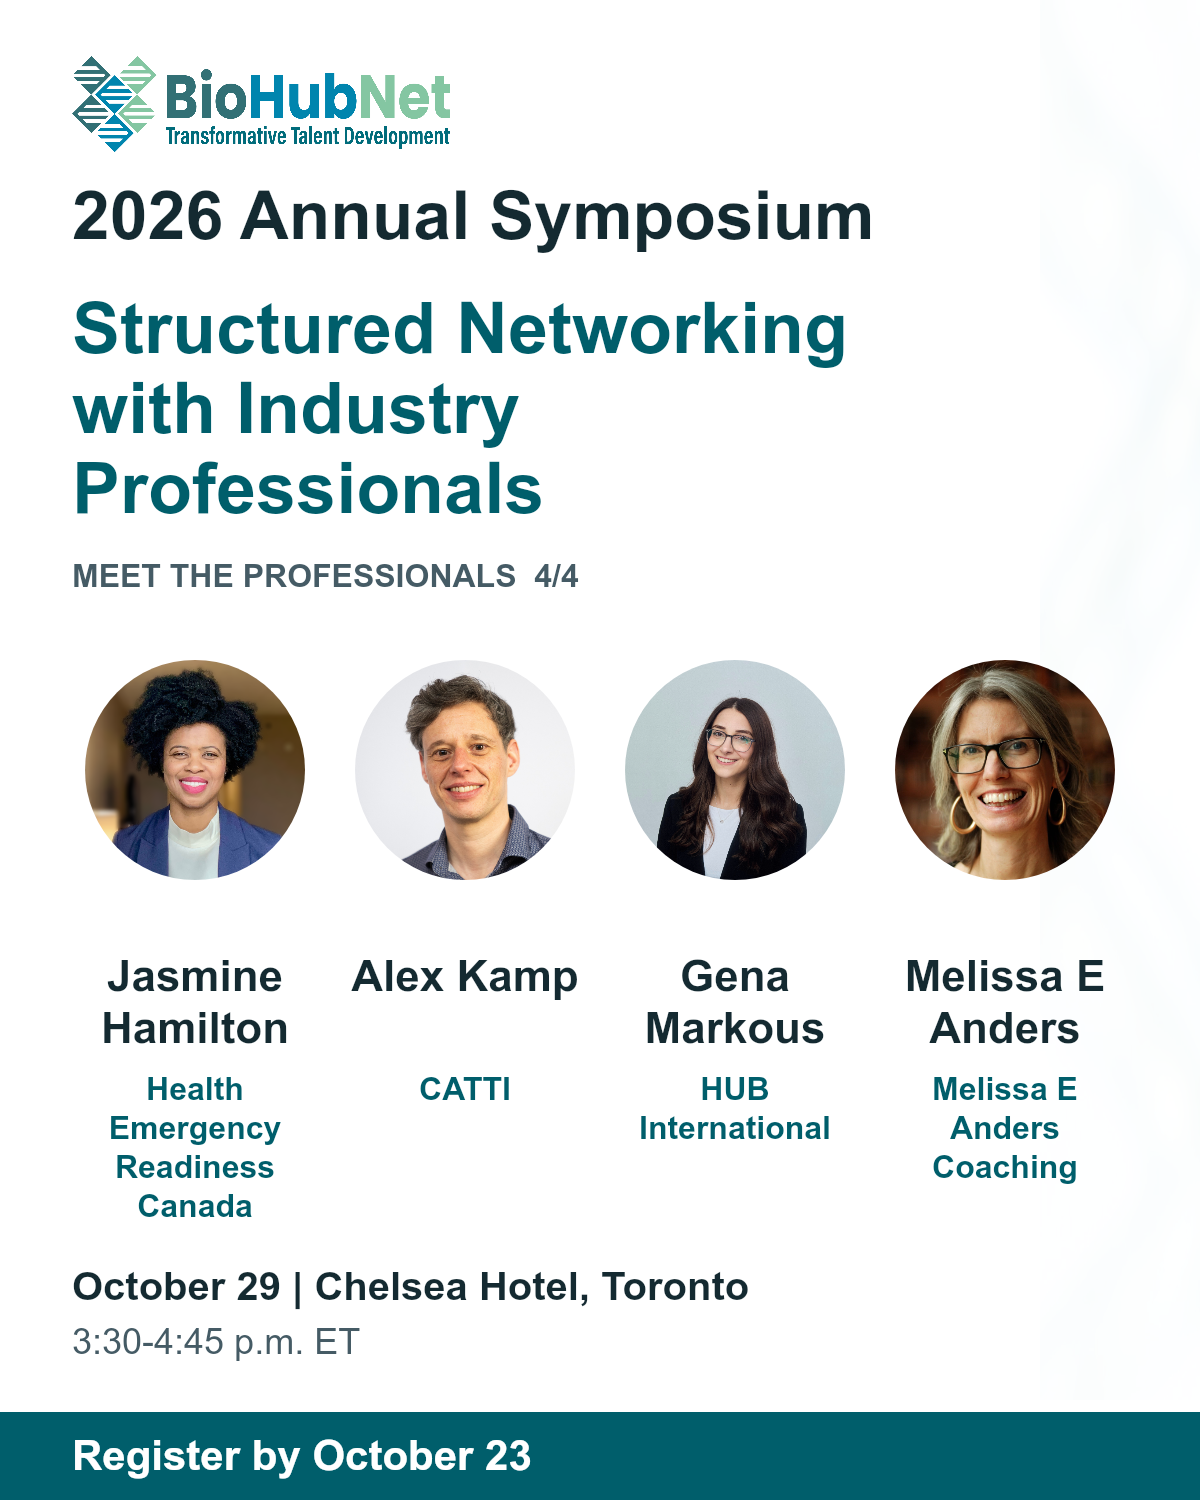
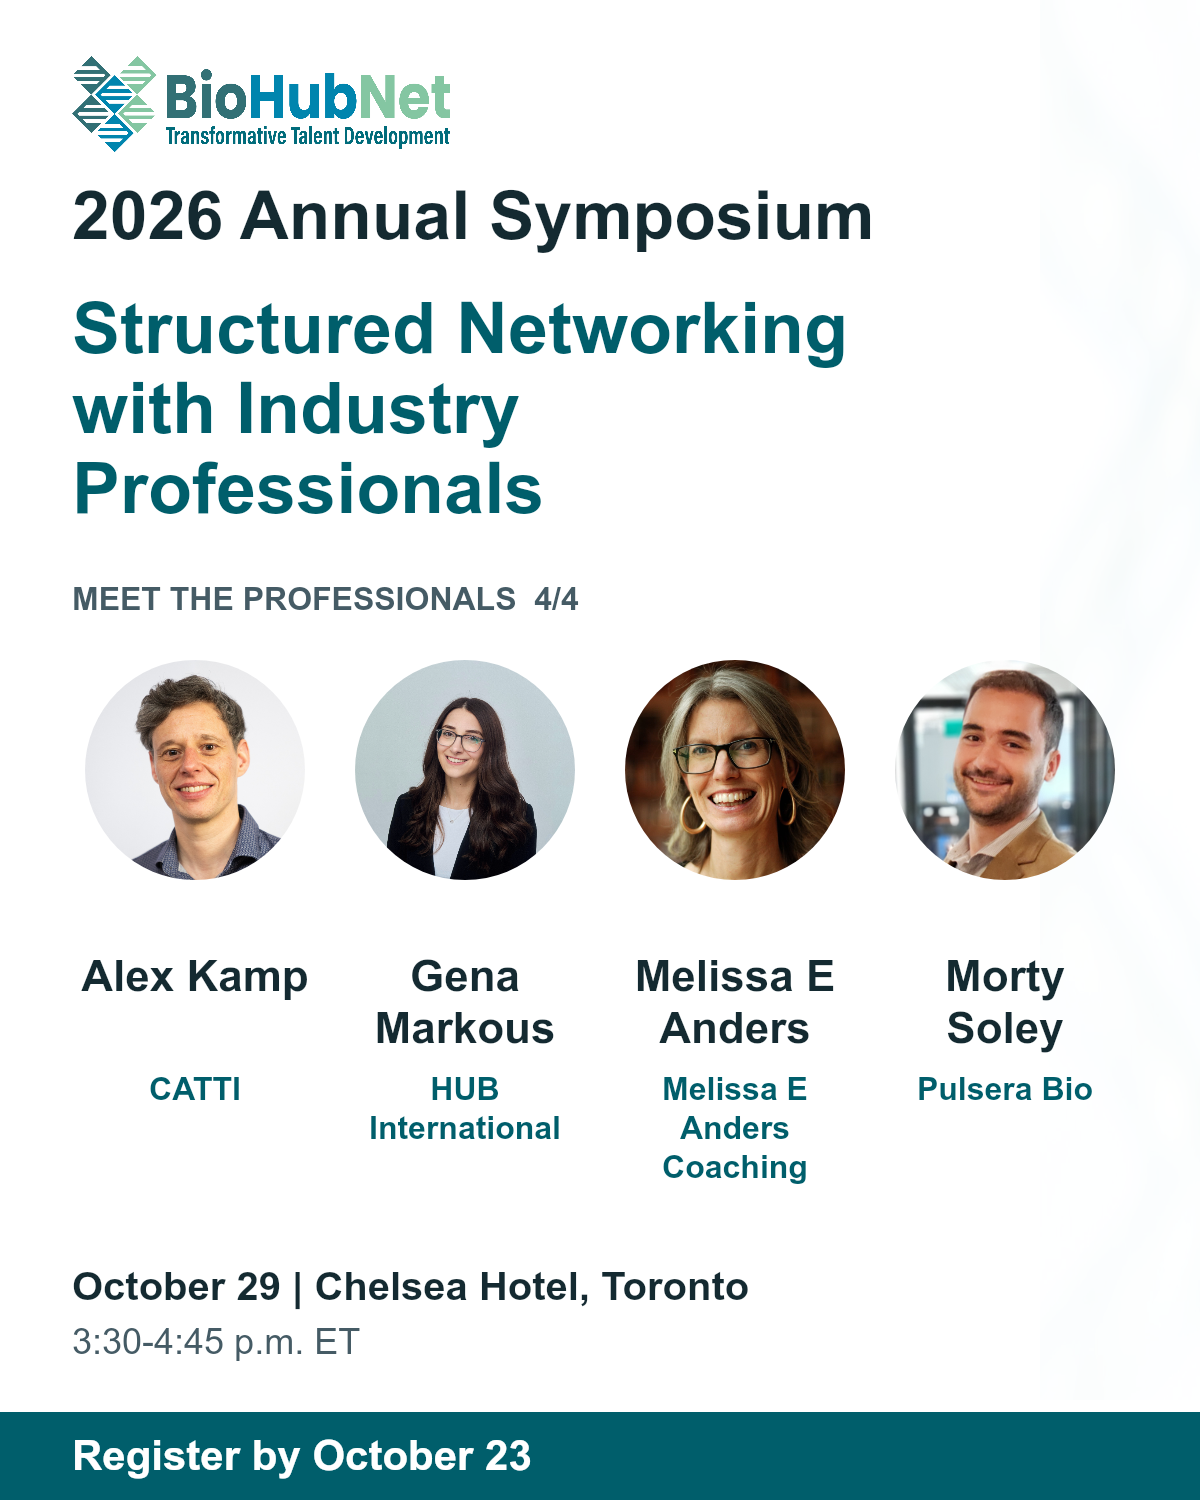
Refresh remaining networking and discussion social highlights

diff --git a/src/lib/social/symposium-networking-posts.ts b/src/lib/social/symposium-networking-posts.ts
@@ -1,4 +1,4 @@
-// Published networking roster checked on October 21, 2026. No public posting is triggered here.
+// Groups 1-3 preserve published copy. Group 4 covers the remaining people checked October 22.
 export const NETWORKING_GROUPS = [
   {
     number: 1,
@@ -37,15 +37,15 @@ export const NETWORKING_GROUPS = [
   },
   {
     number: 4,
-    hook: "Your next step in STEM may be a path you have not considered yet.",
-    invitation: "Explore career choices, leadership and different ways to put a science background to work at Structured Networking with Industry Professionals during BioHubNet's 2026 Annual Symposium.",
+    hook: "Your science background can lead to more than one kind of career.",
+    invitation: "Explore training, entrepreneurship and different ways to put a science background to work at Structured Networking with Industry Professionals during BioHubNet's 2026 Annual Symposium.",
     people: [
-      { name: "Jasmine Hamilton", title: "Senior Advisor", company: "Health Emergency Readiness Canada, Innovation, Science and Economic Development Canada", graphicCompany: "Health Emergency Readiness Canada" },
       { name: "Alex Kamp", title: "Curriculum Development & Partnerships Lead", company: "CATTI", graphicCompany: "CATTI" },
       { name: "Gena Markous", title: "Life Sciences Insurance Advisor", company: "HUB International", graphicCompany: "HUB International" },
       { name: "Melissa E Anders", title: "Founder, Leadership & Career Coach", company: "Melissa E Anders Coaching", graphicCompany: "Melissa E Anders Coaching" },
+      { name: "Morty Soley", title: "Founder", company: "Pulsera Bio", graphicCompany: "Pulsera Bio" },
     ],
-    closing: "From public service and biomanufacturing training to life sciences insurance and STEM career coaching, explore where your experience could lead. Ask about career pivots, leadership and building a career that fits your goals.",
+    closing: "From biomanufacturing training and life sciences insurance to STEM career coaching and building a startup, explore where your experience could lead. Bring your questions about skills, career choices and turning an idea into a venture.",
   },
 ] as const;
 
@@ -55,7 +55,7 @@ export const SYMPOSIUM_NETWORKING_POSTS = NETWORKING_GROUPS.map((group) => ({
   workshopSlug: null,
   suggestedDate: `2026-10-${19 + group.number}T13:00:00Z`,
   sourceUrl: "https://biohubnet.ca/2026-annual-symposium/",
-  assetUrl: `https://bhn-training-platform.vercel.app/social/symposium-2026/networking-${group.number}.png?v=${group.number === 3 ? "20261021-roster15" : "20261020-roster14"}`,
+  assetUrl: `https://bhn-training-platform.vercel.app/social/symposium-2026/networking-${group.number}.png?v=${group.number === 4 ? "20261022-remaining" : group.number === 3 ? "20261021-roster15" : "20261020-roster14"}`,
   graphicBrief: `BioHubNet logo, 2026 Annual Symposium, full Structured Networking with Industry Professionals heading. Original circular headshots with no retouching or color changes: ${group.people.map((p) => p.name).join(", ")}. Names and organizations only on the graphic; professional titles in the caption. Spacious layout, subtle glass edge, October 29 | Toronto | Register now. Recheck the current networking lineup before approving.`,
   body: `${group.hook}
 

diff --git a/src/lib/social/symposium-discussion-posts.ts b/src/lib/social/symposium-discussion-posts.ts
@@ -1,0 +1,52 @@
+// Only people not featured in published symposium posts as of October 22, 2026.
+export const DISCUSSION_GROUPS = [
+  {
+    number: 1,
+    hook: "What will AI change about the way life sciences teams work?",
+    theme: "AI and the Future of Work in Life Sciences",
+    people: [
+      { name: "Jessica Tate", title: "Vice-President, Vector Platform Technology", company: "CCRM/DTBL", graphicCompany: "CCRM / DTBL" },
+      { name: "Juliana Jy", title: "Senior Program Manager", company: "CCRM/DTBL", graphicCompany: "CCRM / DTBL" },
+      { name: "Angela Shaoxu Li", title: "Digital Product Manager", company: "Sanofi", graphicCompany: "Sanofi" },
+    ],
+    closing: "Bring your questions about emerging skills, changing workflows and how people can adapt. Take part in a focused conversation rather than just listening from the audience.",
+  },
+  {
+    number: 2,
+    hook: "The next connection for your research could start with a conversation.",
+    theme: null,
+    people: [
+      { name: "Pierre-Jean Alarco", title: "Knowledge Mobilization Officer", company: "RampUp", graphicCompany: "RampUp" },
+      { name: "Gregory De Crescenzo", title: "Professor", company: "Polytechnique Montreal", graphicCompany: "Polytechnique Montréal" },
+    ],
+    closing: "Meet people working across knowledge mobilization, research and biomanufacturing training. Bring a question, share your perspective and explore connections across the life sciences community.",
+  },
+] as const;
+
+export const SYMPOSIUM_DISCUSSION_POSTS = DISCUSSION_GROUPS.map((group) => ({
+  slug: `symposium-2026-discussion-${group.number}`,
+  title: `2026 Symposium | Interactive Discussion Session (${group.number}/2)`,
+  workshopSlug: null,
+  suggestedDate: "2026-10-23T13:00:00Z",
+  sourceUrl: "https://biohubnet.ca/2026-annual-symposium/",
+  assetUrl: `https://bhn-training-platform.vercel.app/social/symposium-2026/discussion-${group.number}.png?v=20261022`,
+  graphicBrief: `BioHubNet logo, large 2026 Annual Symposium and Interactive Discussion Session headings. Unretouched original rounded headshots: ${group.people.map((p) => p.name).join(", ")}. Names and organizations only; titles stay in the caption. Spacious white layout with a restrained glass edge. October 29 | Toronto | Register by October 23. ${group.theme ? `Approved topic: ${group.theme}.` : "Do not invent a table topic."} People already featured in published posts are excluded.`,
+  body: `${group.hook}
+
+Join the Interactive Discussion Session at BioHubNet's 2026 Annual Symposium.
+${group.theme ? `\nDiscussion topic: ${group.theme}\n` : ""}
+Meet:
+${group.people.map((p) => `@${p.name}, ${p.title}, ${p.company}`).join("\n")}
+
+${group.closing}
+
+October 29, 2026 | Chelsea Hotel, Toronto
+Interactive discussion: 3:30-4:45 p.m. ET
+This session runs concurrently with Structured Networking with Industry Professionals; plan to attend one, not both.
+Registration closes October 23.
+
+Explore the program and register:
+https://biohubnet.ca/2026-annual-symposium/
+
+#BioHubNet #LifeSciences #Biomanufacturing #Networking`,
+}));

diff --git a/tests/unit/social-order.test.tsx b/tests/unit/social-order.test.tsx
@@ -5,6 +5,7 @@ import { renderToStaticMarkup } from "react-dom/server";
 import { DEFAULT_SOCIAL_ORDER, SocialOrderSchema, moveSocialPost, readSocialOrder, sortSocialPosts } from "../../src/lib/social/order";
 import { SYMPOSIUM_PANEL_POSTS } from "../../src/lib/social/symposium-panel-posts";
 import { SYMPOSIUM_NETWORKING_POSTS } from "../../src/lib/social/symposium-networking-posts";
+import { SYMPOSIUM_DISCUSSION_POSTS } from "../../src/lib/social/symposium-discussion-posts";
 import { SYMPOSIUM_CAMPAIGN_PLAN } from "../../src/lib/social/symposium-campaign";
 import { SocialQueue, type QueuePost } from "../../src/components/workspace/SocialQueue";
 
@@ -23,8 +24,8 @@ test("default order follows the symposium agenda first, then Training Week days,
   assert.match(sorted[2].cycleLabel, /Panel 1/);
   assert.match(sorted[3].cycleLabel, /Panel 2/);
   assert.match(sorted[5].cycleLabel, /Panel 3/);
-  assert.ok(sorted.slice(0, 11).every((post) => post.cycleLabel.startsWith("2026 Symposium")));
-  assert.ok(sorted.slice(11).every((post) => post.cycleLabel.startsWith("Training Week")));
+  assert.ok(sorted.slice(0, 13).every((post) => post.cycleLabel.startsWith("2026 Symposium")));
+  assert.ok(sorted.slice(13).every((post) => post.cycleLabel.startsWith("Training Week")));
   assert.deepEqual(posts.map((post) => post.scheduledFor), SYMPOSIUM_CAMPAIGN_PLAN.map((post) => post.suggestedDate));
 });
 
@@ -60,7 +61,7 @@ test("table, full cards and series review use the same shared order with accessi
 });
 
 test("new panel drafts are inserted without discarding colleagues' saved order", () => {
-  const added = new Set([...SYMPOSIUM_PANEL_POSTS, ...SYMPOSIUM_NETWORKING_POSTS].map(p => p.slug));
+  const added = new Set([...SYMPOSIUM_PANEL_POSTS, ...SYMPOSIUM_NETWORKING_POSTS, ...SYMPOSIUM_DISCUSSION_POSTS].map(p => p.slug));
   const legacy = DEFAULT_SOCIAL_ORDER.filter(slug => !added.has(slug)).reverse();
   const migrated = readSocialOrder(legacy);
   assert.deepEqual(migrated.filter(slug => !added.has(slug)), legacy);

diff --git a/tests/unit/symposium-social-calendar.test.tsx b/tests/unit/symposium-social-calendar.test.tsx
@@ -16,7 +16,7 @@ import { SYMPOSIUM_DAY_POSTS } from "../../src/lib/social/symposium-day";
 test("campaign covers every weekday through the symposium, without individual speaker spotlights except Chris", () => {
   const dates = [...new Set(SYMPOSIUM_CAMPAIGN_PLAN.map((post) => post.suggestedDate.slice(0, 10)))].sort();
   assert.deepEqual(dates, ["2026-10-14", "2026-10-15", "2026-10-16", "2026-10-19", "2026-10-20", "2026-10-21", "2026-10-22", "2026-10-23", "2026-10-26", "2026-10-27", "2026-10-28", "2026-10-29"]);
-  assert.equal(new Set(SYMPOSIUM_CAMPAIGN_PLAN.map((post) => post.slug)).size, 19);
+  assert.equal(new Set(SYMPOSIUM_CAMPAIGN_PLAN.map((post) => post.slug)).size, 21);
   for (const post of SYMPOSIUM_CAMPAIGN_PLAN) {
     const body = withSocialTags(post.body);
     assert.ok(body.length < 2000);
@@ -141,9 +141,9 @@ test("page creates missing drafts once, preserves edits and graphics, and no lon
   assert.match(html, /A colleague&#x27;s edited keynote post/);
   assert.match(html, /src="https:\/\/images.example\/chris.png"/);
   assert.match(html, /Awaiting event photos/);
-  assert.equal(creations, 19 + SYMPOSIUM_DAY_POSTS.length);
+  assert.equal(creations, SYMPOSIUM_CAMPAIGN_PLAN.length + SYMPOSIUM_DAY_POSTS.length);
   await render();
-  assert.equal(creations, 19 + SYMPOSIUM_DAY_POSTS.length, "revisiting must not duplicate or overwrite drafts");
+  assert.equal(creations, SYMPOSIUM_CAMPAIGN_PLAN.length + SYMPOSIUM_DAY_POSTS.length, "revisiting must not duplicate or overwrite drafts");
   assert.equal(saved.get(existingKey), existing);
   for (const post of SYMPOSIUM_CAMPAIGN_PLAN.slice(1, 8)) {
     saved.get(`events:event:${post.slug}:0`)!.assetUrl = "https://images.example/campaign.png";

diff --git a/tests/unit/symposium-discussion-posts.test.ts b/tests/unit/symposium-discussion-posts.test.ts
@@ -1,0 +1,26 @@
+import assert from "node:assert/strict";
+import test from "node:test";
+import { DISCUSSION_GROUPS, SYMPOSIUM_DISCUSSION_POSTS } from "../../src/lib/social/symposium-discussion-posts";
+import { NETWORKING_GROUPS } from "../../src/lib/social/symposium-networking-posts";
+import { withSocialTags } from "../../src/lib/social/tags";
+
+test("remaining session drafts cover nine people once and exclude people already featured", () => {
+  const names = [...NETWORKING_GROUPS[3].people.map((p) => p.name), ...DISCUSSION_GROUPS.flatMap<string>((g) => g.people.map((p) => p.name))];
+  assert.equal(names.length, 9);
+  assert.equal(new Set(names).size, 9);
+  for (const name of ["Mona Abu Nameh", "Jasmine Hamilton", "Sven Ansorge", "Anu Vajjala", "Kathy Lee", "Yosuke Niibori", "Angela Davoud", "Donghoon Lee", "Cynthia Elias", "David Sealey", "Lynne Liu", "Liz Csaszar", "Shadan Ashfaie"]) {
+    assert.ok(!names.includes(name), name);
+  }
+  assert.deepEqual(DISCUSSION_GROUPS.map((g) => g.people.length), [3, 2]);
+  for (const post of SYMPOSIUM_DISCUSSION_POSTS) {
+    const text = withSocialTags(post.body);
+    assert.ok(text.length < 2500);
+    assert.match(text, /Interactive Discussion Session/);
+    assert.match(text, /concurrently/);
+    assert.match(text, /Registration closes October 23/);
+    assert.match(text, /@BioHubNet/);
+    assert.doesNotMatch(text, /luma\.com|guaranteed|full biography/i);
+  }
+  assert.match(SYMPOSIUM_DISCUSSION_POSTS[0].body, /Discussion topic: AI and the Future of Work in Life Sciences/);
+  assert.doesNotMatch(SYMPOSIUM_DISCUSSION_POSTS[1].body, /Discussion topic:/);
+});

diff --git a/tests/unit/symposium-networking-posts.test.ts b/tests/unit/symposium-networking-posts.test.ts
@@ -5,12 +5,14 @@ import { NETWORKING_GROUPS, SYMPOSIUM_NETWORKING_POSTS } from "../../src/lib/soc
 import { withSocialTags } from "../../src/lib/social/tags";
 import { DEFAULT_SOCIAL_ORDER, readSocialOrder } from "../../src/lib/social/order";
 
-test("all 15 current networking professionals appear once, in groups of at most four", () => {
+test("networking series retains published groups and features remaining people without repeating Jasmine", () => {
   assert.deepEqual(NETWORKING_GROUPS.map((g) => g.people.length), [4, 3, 4, 4]);
   const names = NETWORKING_GROUPS.flatMap((g) => g.people.map((p) => p.name));
   assert.equal(new Set(names).size, 15);
   assert.ok(NETWORKING_GROUPS[2].people.some((p) => p.name === "Anu Vajjala"));
   assert.ok(names.includes("Melissa E Anders"));
+  assert.ok(NETWORKING_GROUPS[3].people.some((p) => p.name === "Morty Soley"));
+  assert.ok(!names.includes("Jasmine Hamilton"));
   assert.ok(!names.some((name) => /Czaniecki|Shivali/.test(name)));
   for (const post of SYMPOSIUM_NETWORKING_POSTS) {
     const body = withSocialTags(post.body);

diff --git a/src/lib/social/order.ts b/src/lib/social/order.ts
@@ -12,6 +12,8 @@ export const DEFAULT_SOCIAL_ORDER = [
   "symposium-2026-networking-2",
   "symposium-2026-networking-3",
   "symposium-2026-networking-4",
+  "symposium-2026-discussion-1",
+  "symposium-2026-discussion-2",
   "symposium-2026-on-the-day-photo-oct29",
   "symposium-2026-week-ahead-oct23",
   "training-week-2026-pandemic-promotion-oct13",
@@ -37,6 +39,8 @@ export function readSocialOrder(value: unknown): string[] {
     ["symposium-2026-networking-2", "symposium-2026-networking-1"],
     ["symposium-2026-networking-3", "symposium-2026-networking-2"],
     ["symposium-2026-networking-4", "symposium-2026-networking-3"],
+    ["symposium-2026-discussion-1", "symposium-2026-networking-4"],
+    ["symposium-2026-discussion-2", "symposium-2026-discussion-1"],
   ]) if (!order.includes(slug)) order.splice(order.indexOf(after) + 1, 0, slug);
   return SocialOrderSchema.parse(order);
 }

diff --git a/src/lib/social/symposium-campaign.ts b/src/lib/social/symposium-campaign.ts
@@ -1,6 +1,7 @@
 import { OCTOBER_PROMOTIONS } from "./october-promotions";
 import { SYMPOSIUM_PANEL_POSTS } from "./symposium-panel-posts";
 import { SYMPOSIUM_NETWORKING_POSTS } from "./symposium-networking-posts";
+import { SYMPOSIUM_DISCUSSION_POSTS } from "./symposium-discussion-posts";
 
 interface CampaignPost {
   slug: string;
@@ -18,6 +19,7 @@ export const SYMPOSIUM_CAMPAIGN_PLAN: readonly CampaignPost[] = [
   ...OCTOBER_PROMOTIONS,
   ...SYMPOSIUM_PANEL_POSTS,
   ...SYMPOSIUM_NETWORKING_POSTS,
+  ...SYMPOSIUM_DISCUSSION_POSTS,
   {
     slug: "symposium-2026-ai-panel-oct21",
     title: "2026 Symposium | AI and the future workforce",
